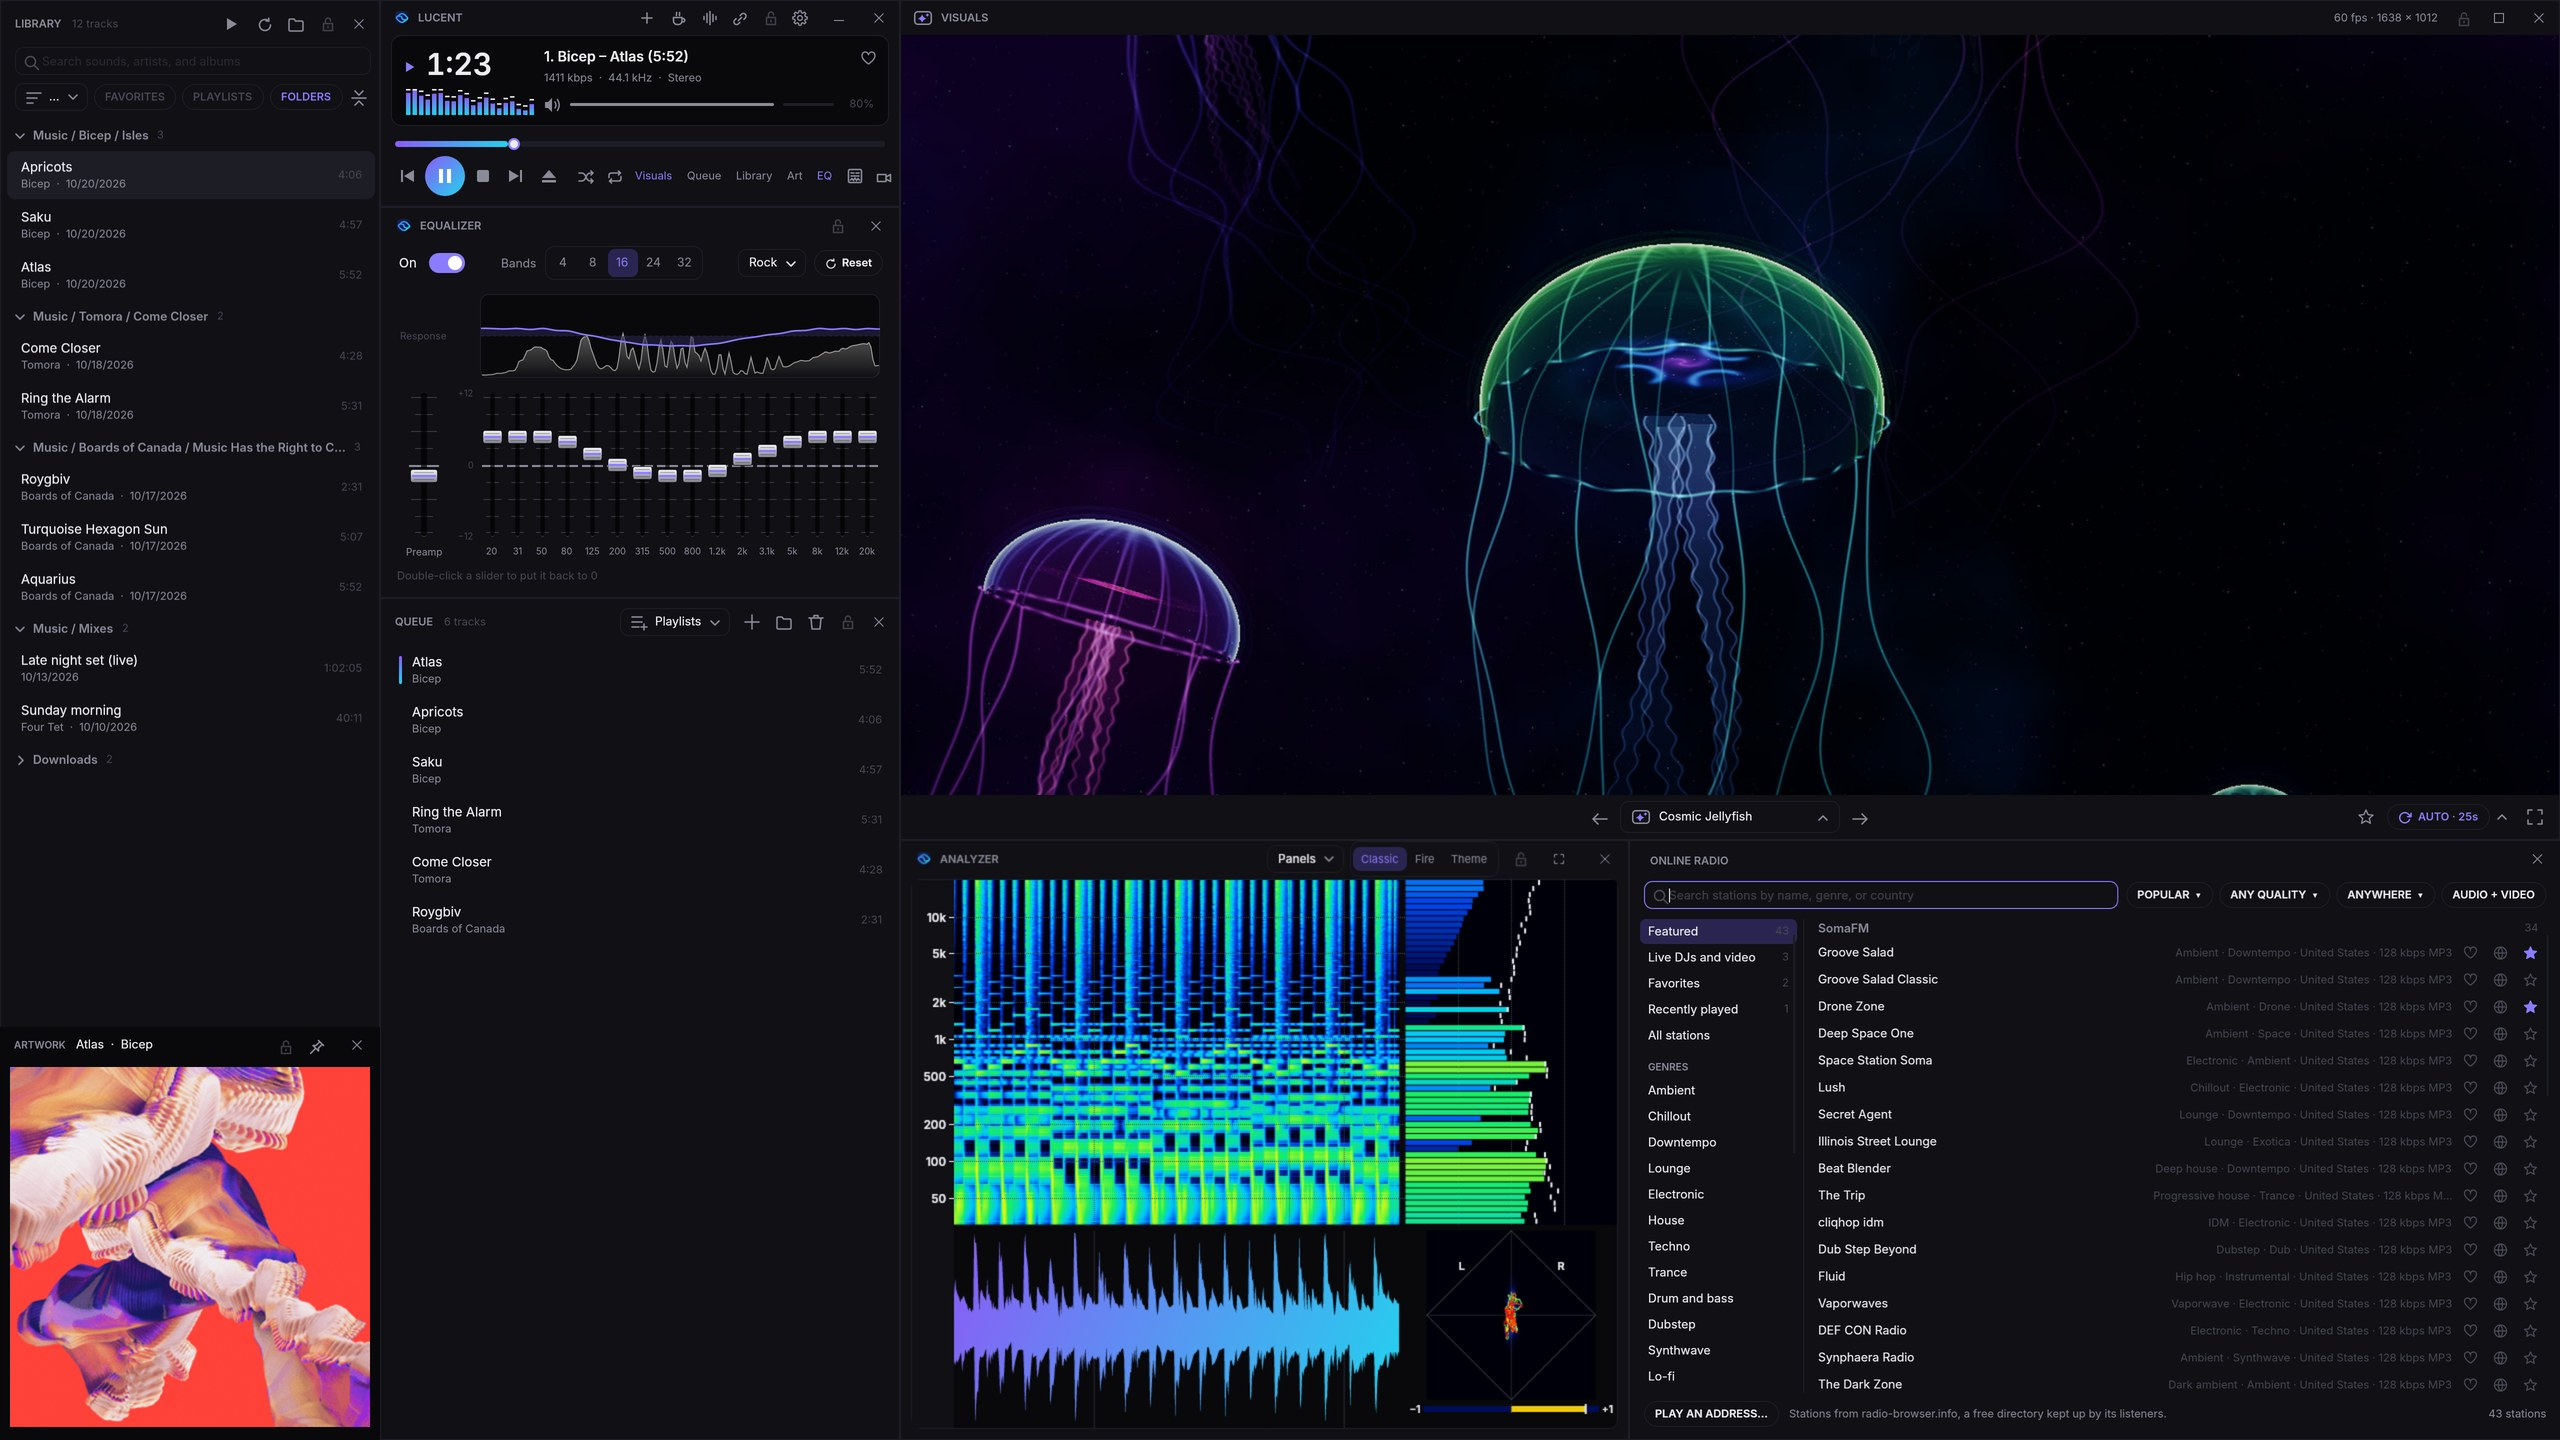
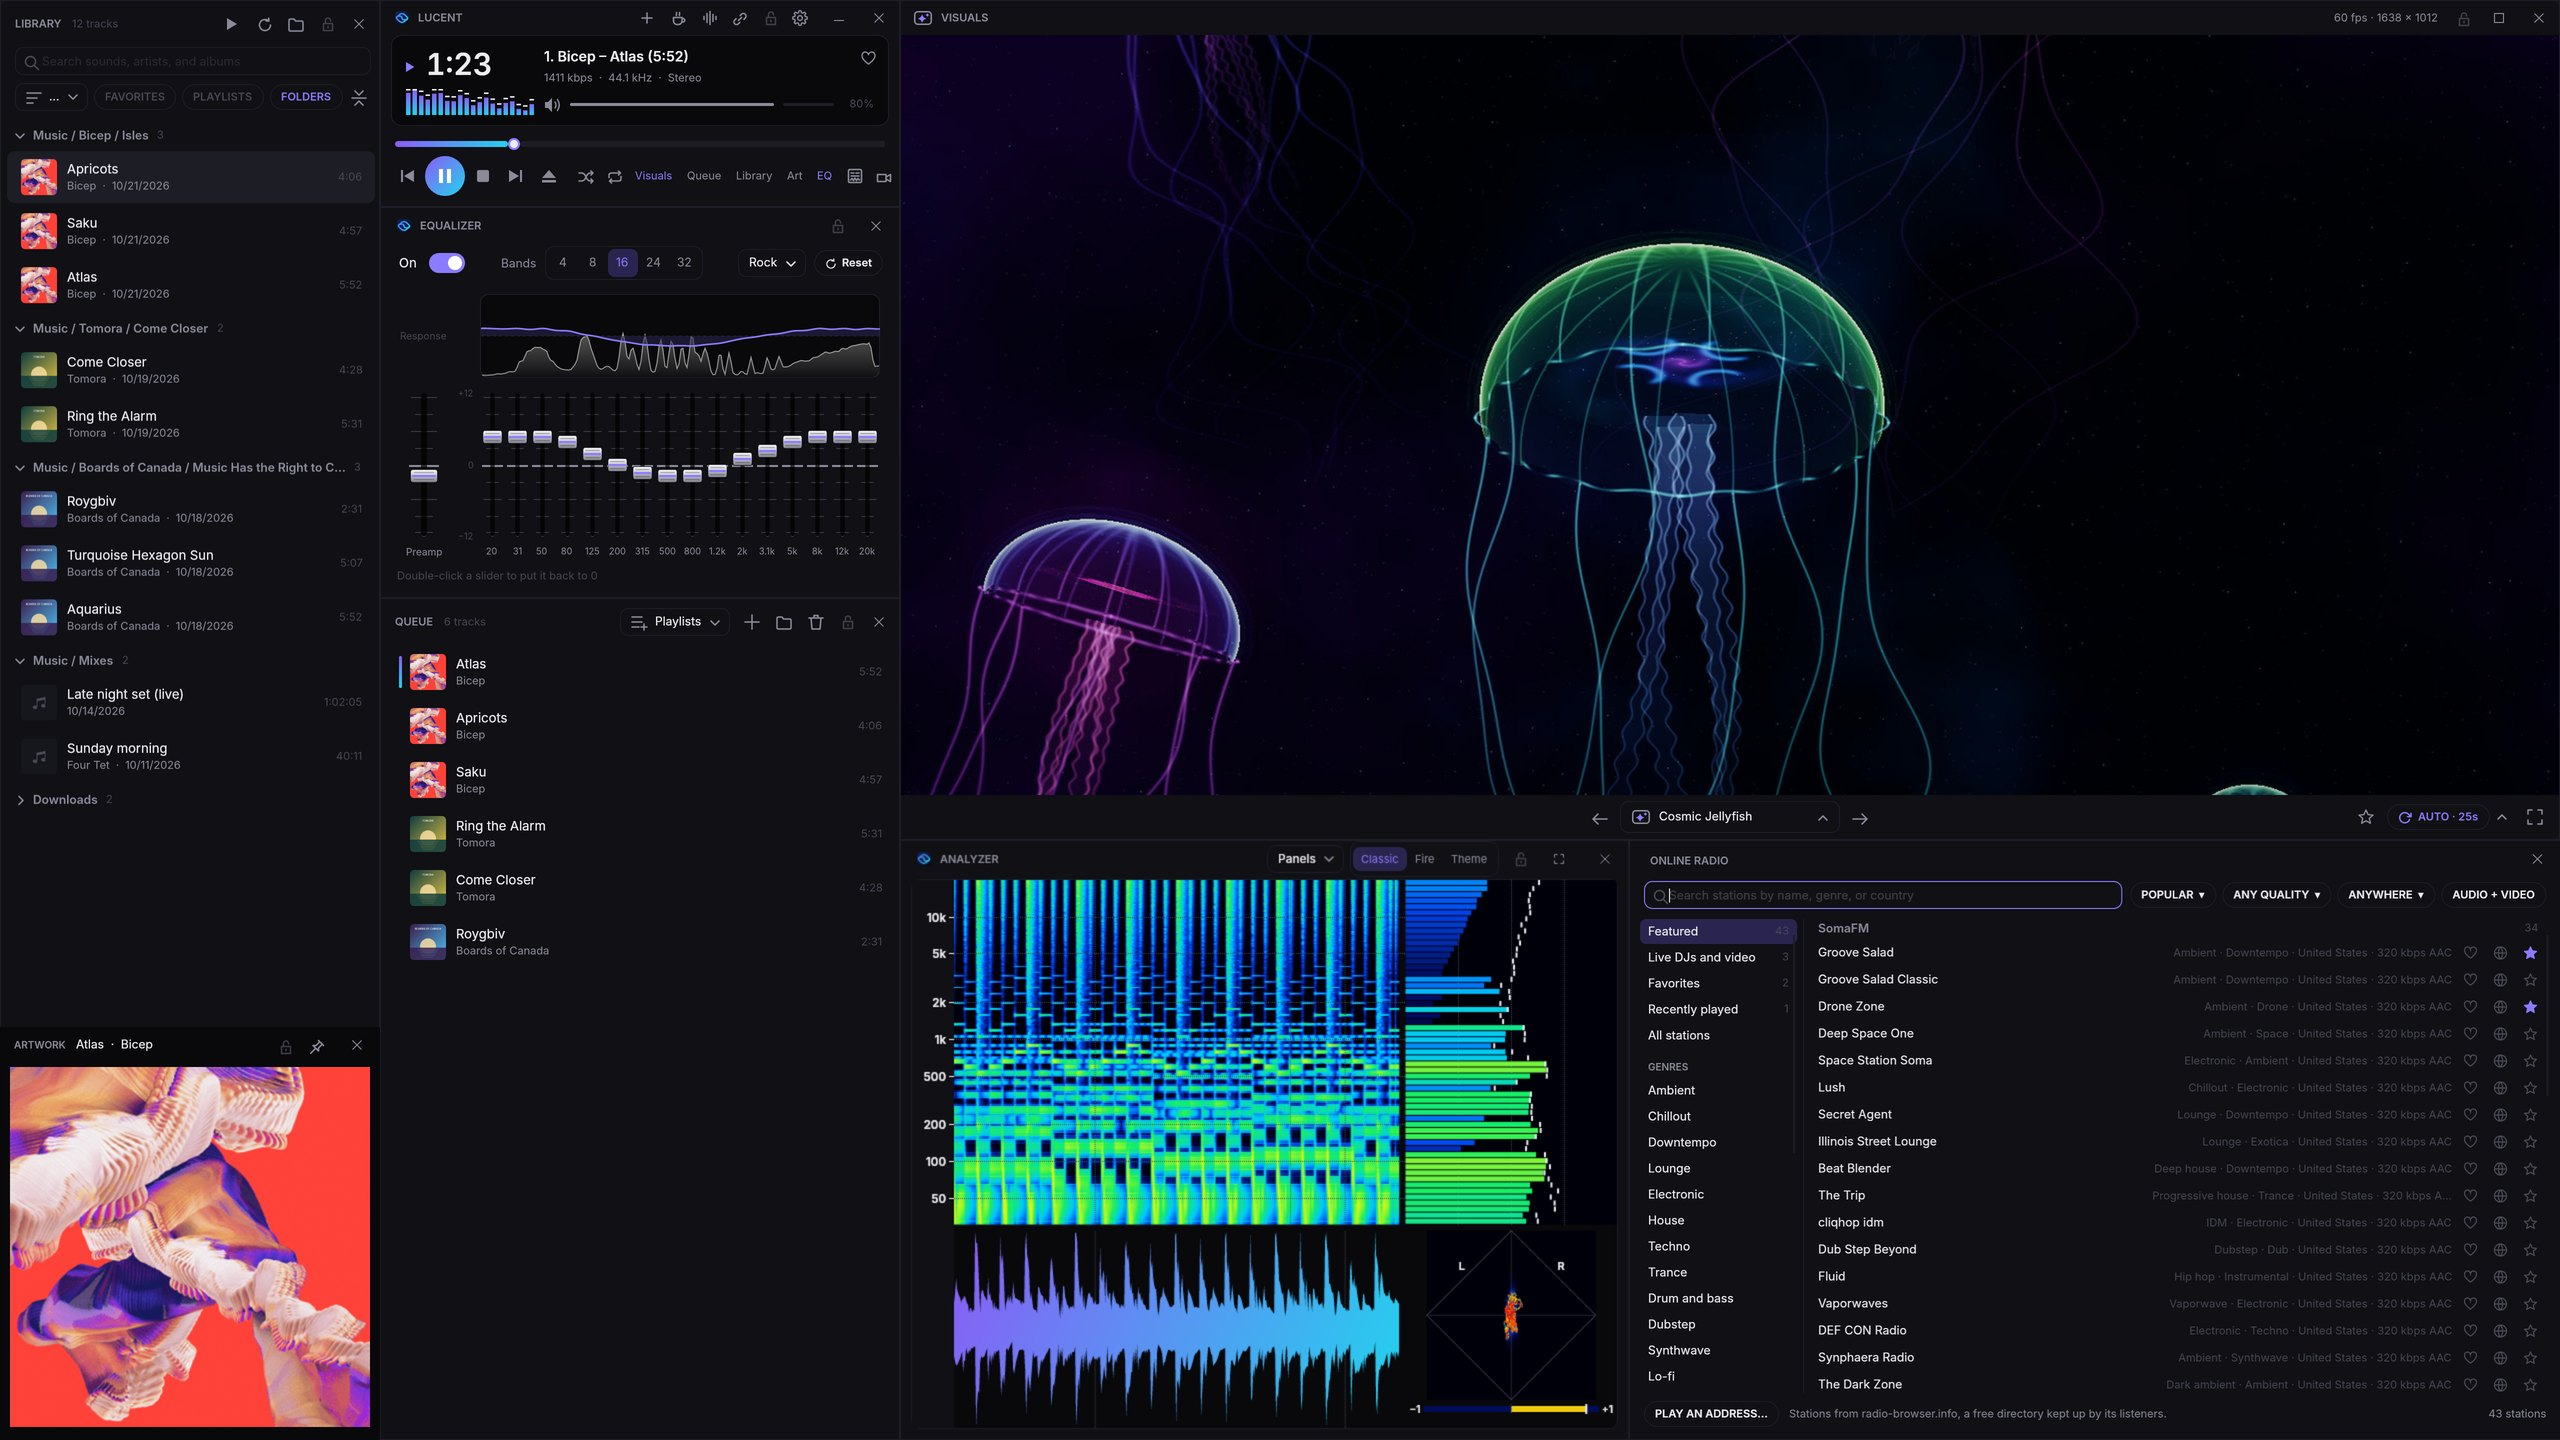
Website: album covers in the tour's library and queue
Re-rendered the full-screen tour layers after #273, so the library and
queue show each song's album cover as the player now does.

Claude-Session: https://claude.ai/code/session_015P6pNfnd5pKDrS4qQud27S

diff --git a/site/index.html b/site/index.html
@@ -913,10 +913,10 @@ footer .credits a { text-decoration: underline; }
   /* ---------- the window tour at the top: Lucent full screen, a window at a time ---------- */
   // [name, file, place on a 2560 × 1440 screen (x, y, width, height, from FullScreenLayout), what it is, alt text, floats over the rest]
   const WINDOWS = [
-    ["Library", "tour/full/library.png", [0, 0, 380, 1027.5], "Your music folders, newest first, with favorites and playlists a click away.", "The library, with folders for Bicep's Isles, Tomora's Come Closer, and Boards of Canada"],
+    ["Library", "tour/full/library.png", [0, 0, 380, 1027.5], "Your music folders, newest first, with favorites and playlists a click away.", "The library, with album covers beside each song in folders for Bicep's Isles, Tomora's Come Closer, and Boards of Canada"],
     ["Player", "tour/full/player.png", [380, 0, 520, 207], "Bicep's Atlas in lossless, with a live level meter and one-click links to every other window.", "The player, playing Atlas by Bicep"],
     ["Equalizer", "tour/full/equalizer.png", [380, 207, 520, 391], "4 to 32 bands, with the music's live spectrum behind the faders.", "The 16-band equalizer on the Rock preset"],
-    ["Queue", "tour/full/queue.png", [380, 598, 520, 842], "What's up next. Drag to reorder, and save or load playlists.", "The queue, with Bicep, Tomora, and Boards of Canada songs"],
+    ["Queue", "tour/full/queue.png", [380, 598, 520, 842], "What's up next. Drag to reorder, and save or load playlists.", "The queue, with album covers beside Bicep, Tomora, and Boards of Canada songs"],
     ["Artwork", "tour/full/artwork.jpg", [0, 1027.4, 380, 412.6], "The cover of whatever's on: your files, a streaming app, or a radio station.", "The artwork window with Bicep's Isles cover"],
     ["Visuals", "tour/full/visuals.jpg", [900, 0, 1660, 840], "454 visuals drawn live on your graphics card. This one is Cosmic Jellyfish.", "The visuals window showing Cosmic Jellyfish"],
     ["Analyzer", "tour/full/analyzer.png", [900, 840, 729, 600], "A studio spectrogram, spectrum, waveform, and stereo scope, scrolling together.", "The analyzer"],
